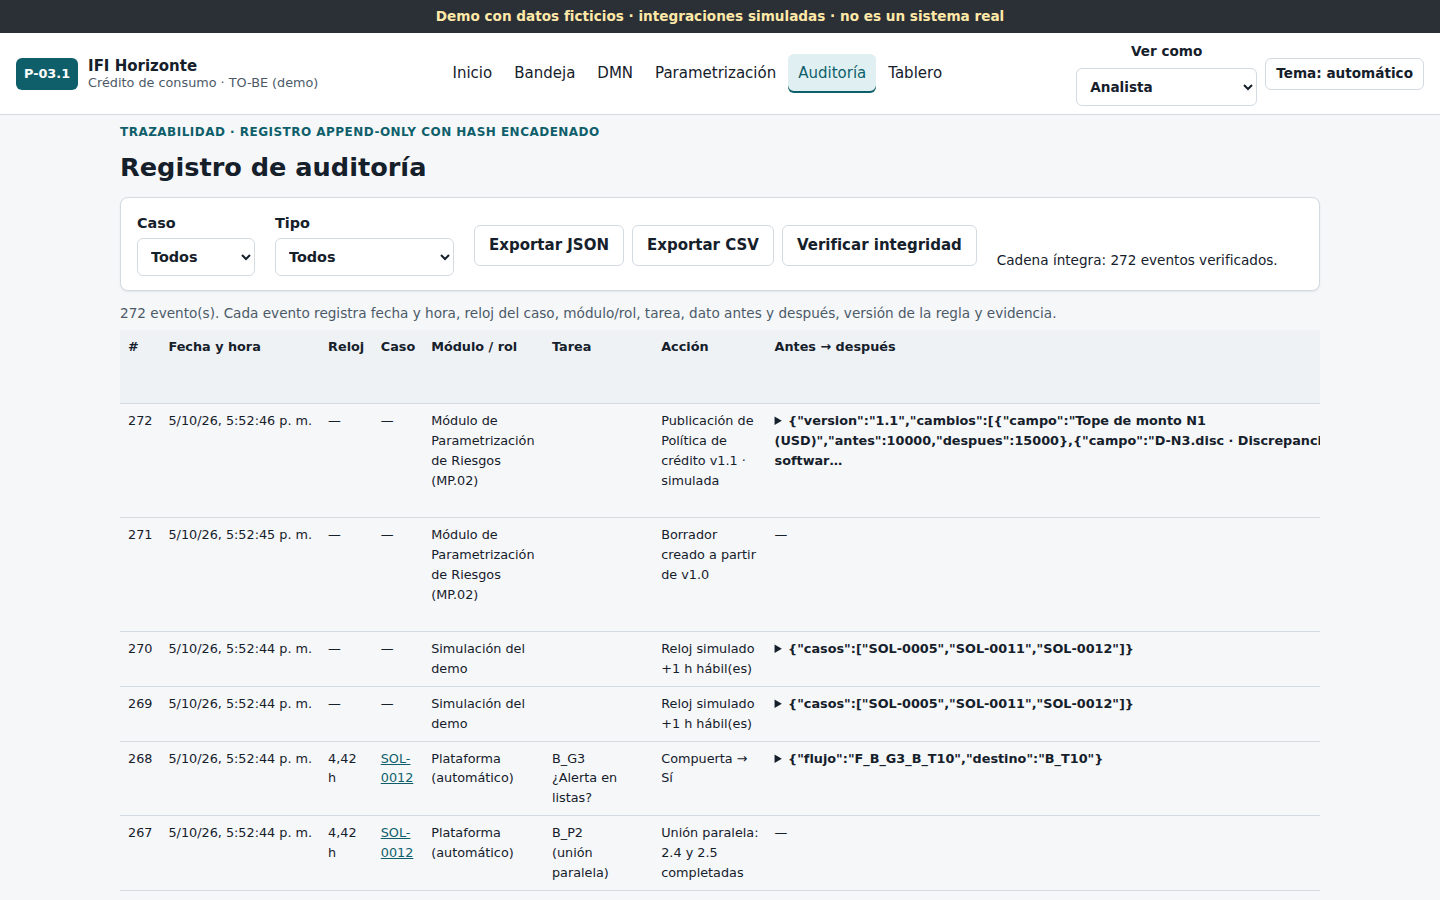
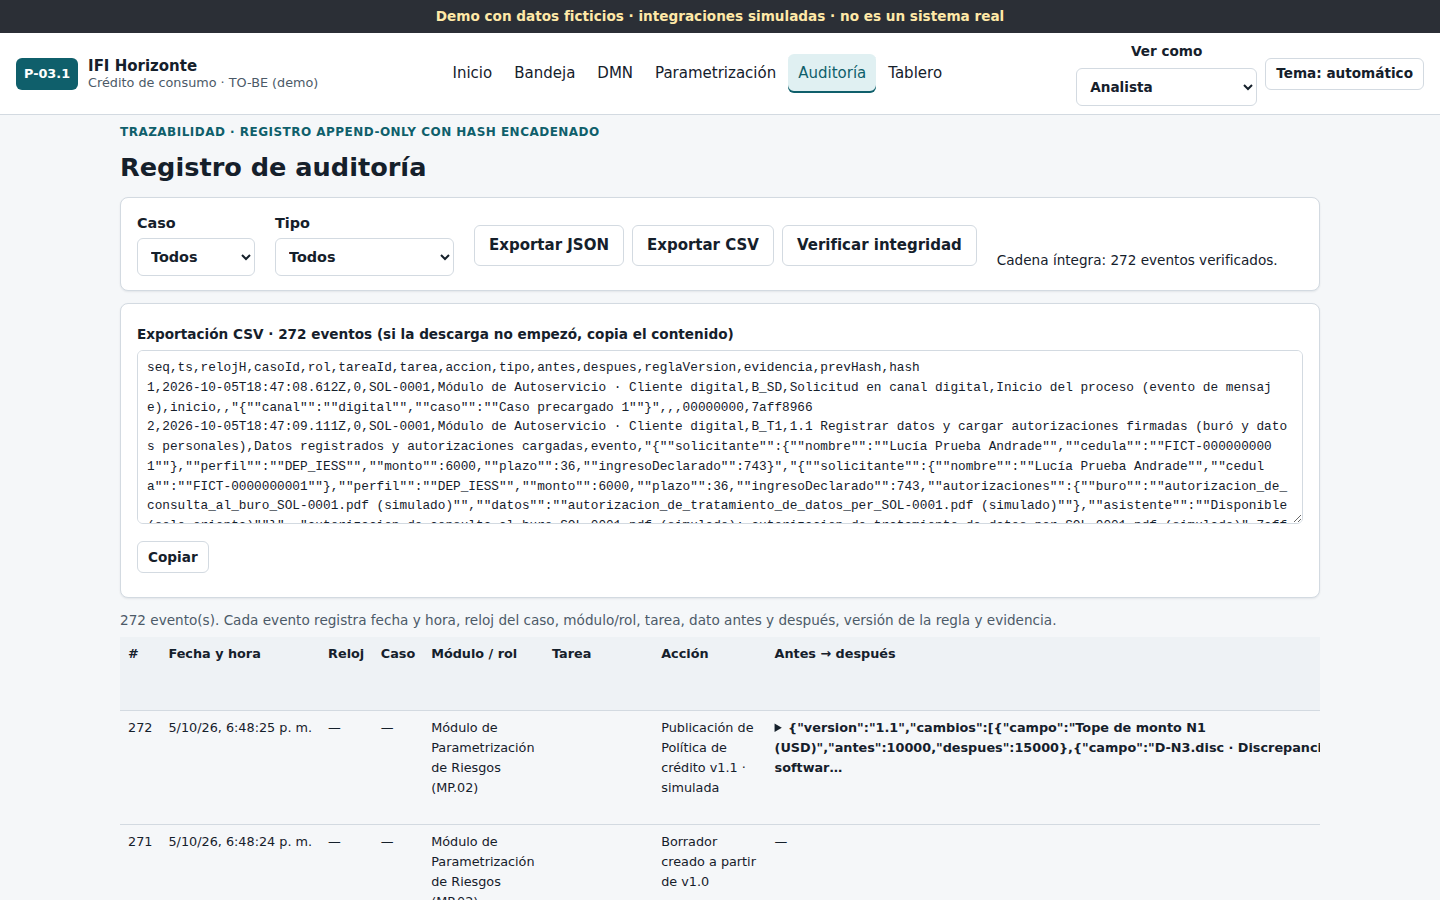
Adaptar el demo a visores restringidos: BPMN incrustable, exportación visible y reinicio en dos pasos
- window.__BPMN_XML permite incrustar el diagrama cuando no hay fetch.
- La exportación JSON/CSV además se muestra en pantalla con botón Copiar.
- Reiniciar pide confirmación con un segundo clic (sin confirm()).
- Banner fijo respeta el área segura superior.

Claude-Session: https://claude.ai/code/session_01NQLbr4EqS382MqQWa85zyz

Changed region(s): [[0.0938, 0.3422, 0.9062, 0.7467], [0.0938, 0.7778, 0.9062, 1.0]]

diff --git a/credito-consumo/assets/js/ui.js b/credito-consumo/assets/js/ui.js
@@ -224,6 +224,12 @@ function vistaAuditoria(q) {
       </div>
       <p class="small" data-verif aria-live="polite"></p>
     </div>
+    <div class="card" data-export hidden>
+      <p class="small"><strong data-export-tit></strong></p>
+      <label class="sr-only" for="export-txt">Contenido exportado</label>
+      <textarea id="export-txt" rows="8" readonly class="mono"></textarea>
+      <div class="btn-row"><button class="btn sm" type="button" data-action="copiar-export">Copiar</button></div>
+    </div>
     <p class="muted small">${log.length} evento(s). Cada evento registra fecha y hora, reloj del caso, módulo/rol, tarea, dato antes y después, versión de la regla y evidencia.</p>
     <div class="table-wrap"><table class="audit">
       <thead><tr><th scope="col">#</th><th scope="col">Fecha y hora</th><th scope="col">Reloj</th><th scope="col">Caso</th><th scope="col">Módulo / rol</th><th scope="col">Tarea</th><th scope="col">Acción</th><th scope="col">Antes → después</th><th scope="col">Versión de la regla</th><th scope="col">Evidencia</th><th scope="col">Hash</th></tr></thead>
@@ -330,12 +336,23 @@ main.addEventListener('click', (e) => {
       anunciar(`Reloj simulado +1 h en ${n} caso(s) en espera.`);
       return;
     }
-    case 'export-json':
-      descargar(`auditoria_P-03.1_${Date.now()}.json`, aJSON(filtrados(), { politicaVigente: store.versionActual() }), 'application/json');
+    case 'export-json': case 'export-csv': {
+      const json = a === 'export-json';
+      const txt = json ? aJSON(filtrados(), { politicaVigente: store.versionActual() }) : aCSV(filtrados());
+      descargar(`auditoria_P-03.1_${Date.now()}.${json ? 'json' : 'csv'}`, txt, json ? 'application/json' : 'text/csv;charset=utf-8');
+      // Respaldo para visores que bloquean descargas: el contenido queda visible para copiarlo.
+      const out = main.querySelector('[data-export]');
+      out.hidden = false;
+      out.querySelector('[data-export-tit]').textContent = `Exportación ${json ? 'JSON' : 'CSV'} · ${filtrados().length} eventos (si la descarga no empezó, copia el contenido)`;
+      out.querySelector('textarea').value = txt.replace(/^\ufeff/, '');
       return;
-    case 'export-csv':
-      descargar(`auditoria_P-03.1_${Date.now()}.csv`, aCSV(filtrados()), 'text/csv;charset=utf-8');
+    }
+    case 'copiar-export': {
+      const ta = main.querySelector('[data-export] textarea');
+      const ok = () => { btn.textContent = 'Copiado'; anunciar('Contenido copiado.'); };
+      navigator.clipboard?.writeText(ta.value).then(ok).catch(() => { ta.select(); btn.textContent = 'Selecciona y copia (Ctrl+C)'; }) ?? ta.select();
       return;
+    }
     case 'verificar': {
       const roto = audit.verificar();
       main.querySelector('[data-verif]').textContent = roto == null ? `Cadena íntegra: ${store.state.auditLog.length} eventos verificados.` : `Cadena alterada desde el evento #${roto}.`;
@@ -344,7 +361,15 @@ main.addEventListener('click', (e) => {
     case 'borrador-crear': crearBorrador(); return;
     case 'borrador-descartar': descartarBorrador(); return;
     case 'reiniciar':
-      if (confirm('¿Reiniciar el demo? Se borran casos, auditoría y versiones de política.')) { store.reiniciar(); location.hash = '#/inicio'; render(true); }
+      // Confirmación en dos pasos (sin confirm(), que algunos visores bloquean).
+      if (btn.dataset.armado !== 'si') {
+        btn.dataset.armado = 'si';
+        btn.textContent = 'Confirmar: borrar casos, auditoría y versiones';
+        anunciar('Pulsa de nuevo para confirmar el reinicio.');
+        setTimeout(() => { if (document.body.contains(btn)) { btn.dataset.armado = ''; btn.textContent = 'Reiniciar demo (borra casos, auditoría y versiones)'; } }, 6000);
+        return;
+      }
+      store.reiniciar(); location.hash = '#/inicio'; render(true);
       return;
     default:
       if (casoDeRuta()) accionCaso(a, btn, casoDeRuta());

diff --git a/credito-consumo/assets/css/app.css b/credito-consumo/assets/css/app.css
@@ -55,7 +55,7 @@ code, .mono { font-family: var(--mono); font-size: .85em; word-break: break-all;
 .ok-text { color: var(--ok); } .bad-text { color: var(--bad); }
 
 /* ---------- shell */
-.banner { position: sticky; top: 0; z-index: 50; background: var(--banner-bg); color: var(--banner-ink); text-align: center; font-weight: 600; font-size: .85rem; padding: 6px 16px; }
+.banner { position: sticky; top: env(safe-area-inset-top, 0px); z-index: 50; background: var(--banner-bg); color: var(--banner-ink); text-align: center; font-weight: 600; font-size: .85rem; padding: 6px 16px; }
 .top { background: var(--surface); border-bottom: 1px solid var(--border); }
 .top-inner { max-width: 1440px; margin: 0 auto; padding: 8px 16px; display: flex; flex-wrap: wrap; gap: 8px 20px; align-items: center; justify-content: space-between; }
 .brand { display: flex; gap: 10px; align-items: center; text-decoration: none; color: var(--text); }

diff --git a/credito-consumo/assets/js/ui.expediente.js b/credito-consumo/assets/js/ui.expediente.js
@@ -456,9 +456,14 @@ function cargarBpmn() {
   bp.ready = (async () => {
     if (!window.BpmnJS) throw new Error('No se pudo cargar bpmn-js desde unpkg (sin conexión o bloqueado).');
     bp.viewer = new window.BpmnJS({ container: bp.el });
-    const r = await fetch(PROCESO.bpmnUrl);
-    if (!r.ok) throw new Error(`No se pudo leer el BPMN (${r.status}).`);
-    await bp.viewer.importXML(await r.text());
+    // window.__BPMN_XML permite incrustar el diagrama cuando la página no puede usar fetch.
+    let xml = window.__BPMN_XML;
+    if (!xml) {
+      const r = await fetch(PROCESO.bpmnUrl);
+      if (!r.ok) throw new Error(`No se pudo leer el BPMN (${r.status}).`);
+      xml = await r.text();
+    }
+    await bp.viewer.importXML(xml);
     return bp;
   })();
   return bp.ready;
